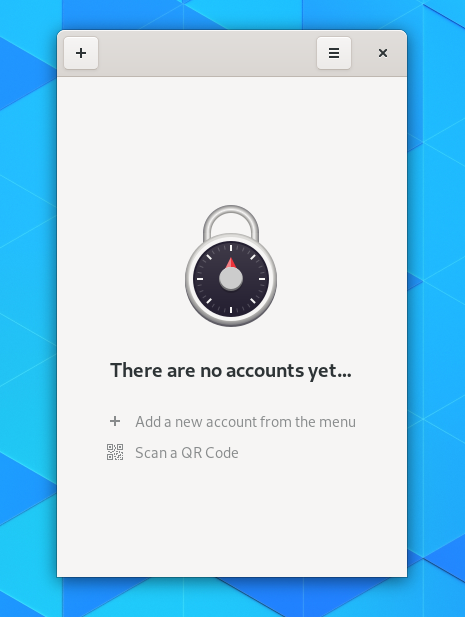
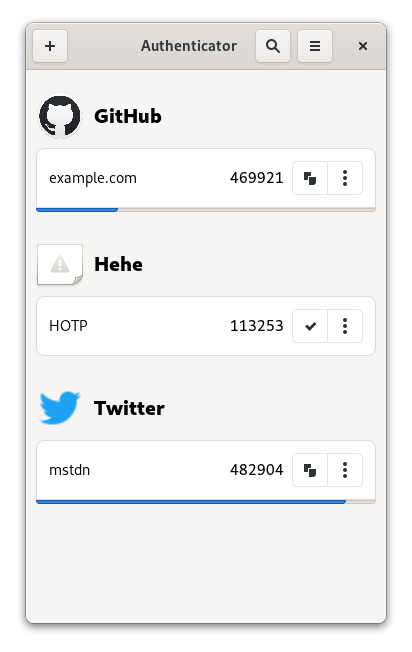
update screenshots

diff --git a/README.md b/README.md
@@ -9,6 +9,8 @@
 
 ## Screenshots
 
+![screenshot](data/screenshots/screenshot1.png)
+![screenshot](data/screenshots/screenshot2.png)
 ![screenshot](data/screenshots/screenshot3.png)
 
 ## Features
